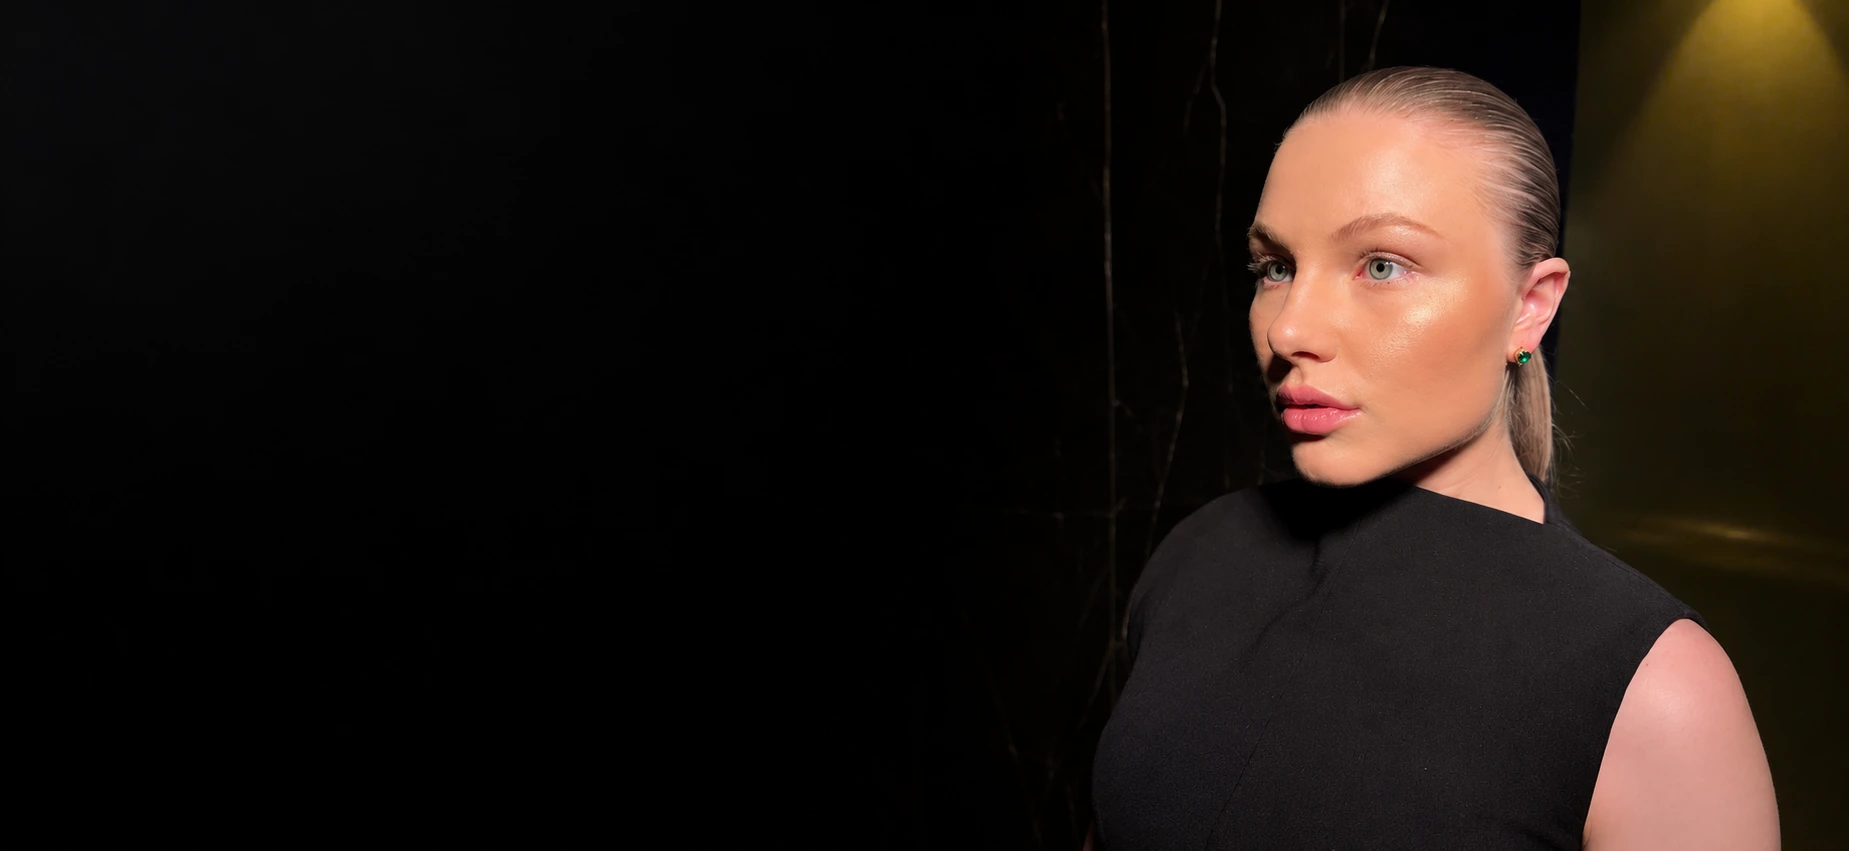
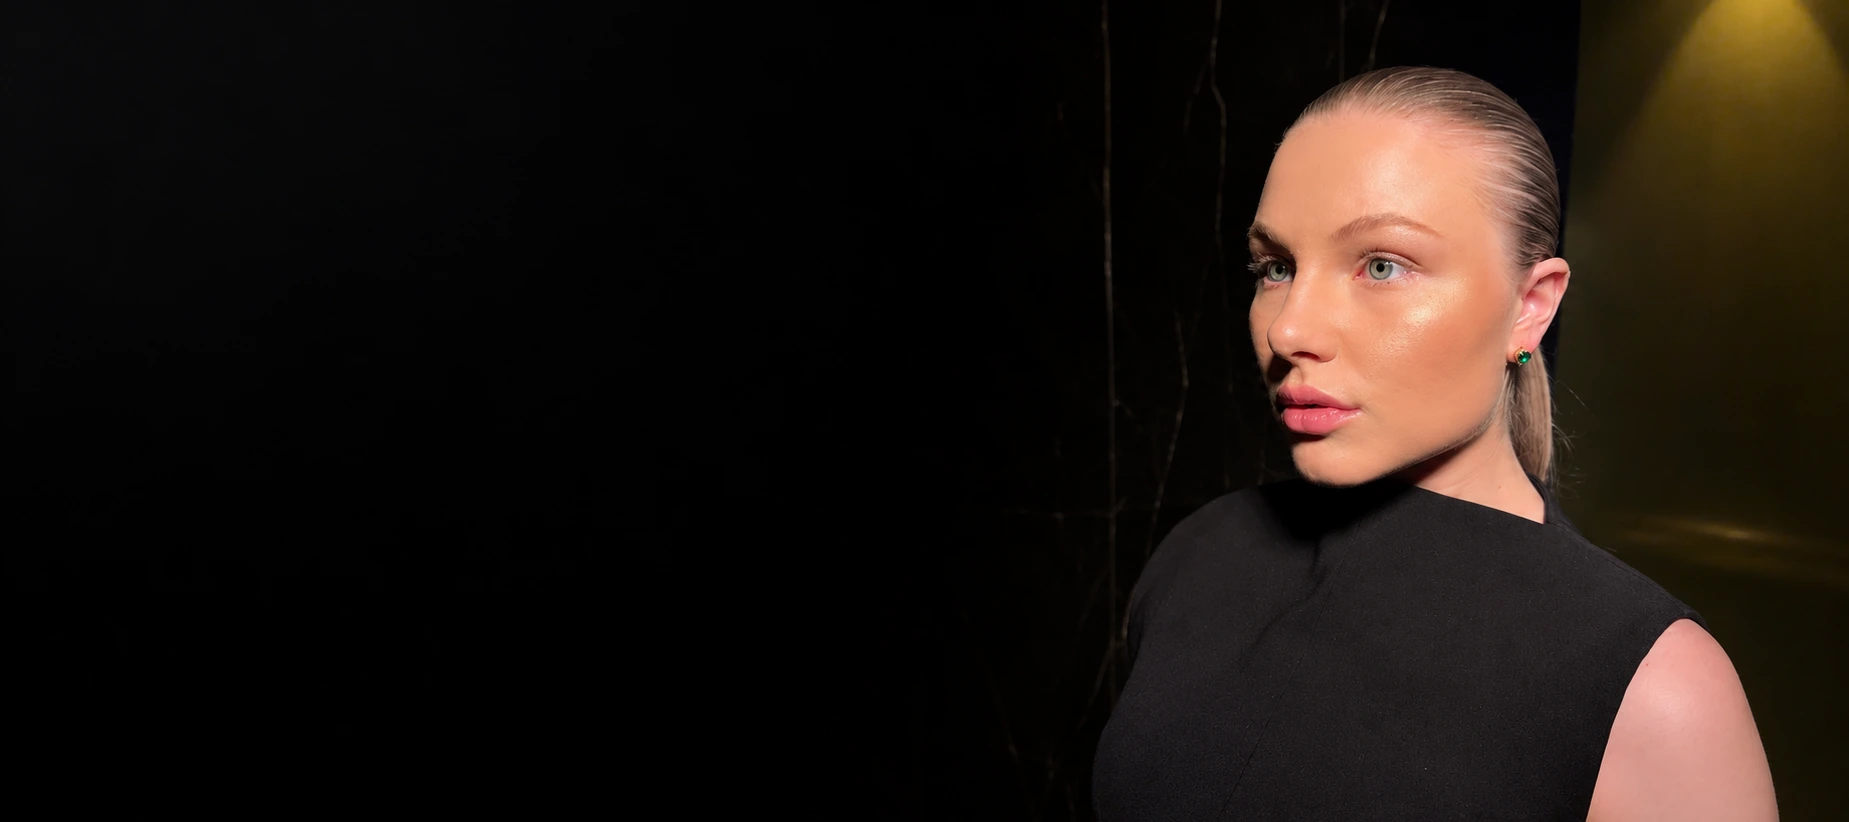
Refine hero image crop

diff --git a/src/App.tsx b/src/App.tsx
@@ -376,7 +376,7 @@ function App() {
                   src="/images/hero-thamyres-scene-final.webp"
                   alt="Thamyres Harmatiuk, criadora de conteúdo UGC para marcas de beleza"
                   width="1849"
-                  height="1024"
+                  height="822"
                   loading="eager"
                   decoding="async"
                   fetchPriority="high"
